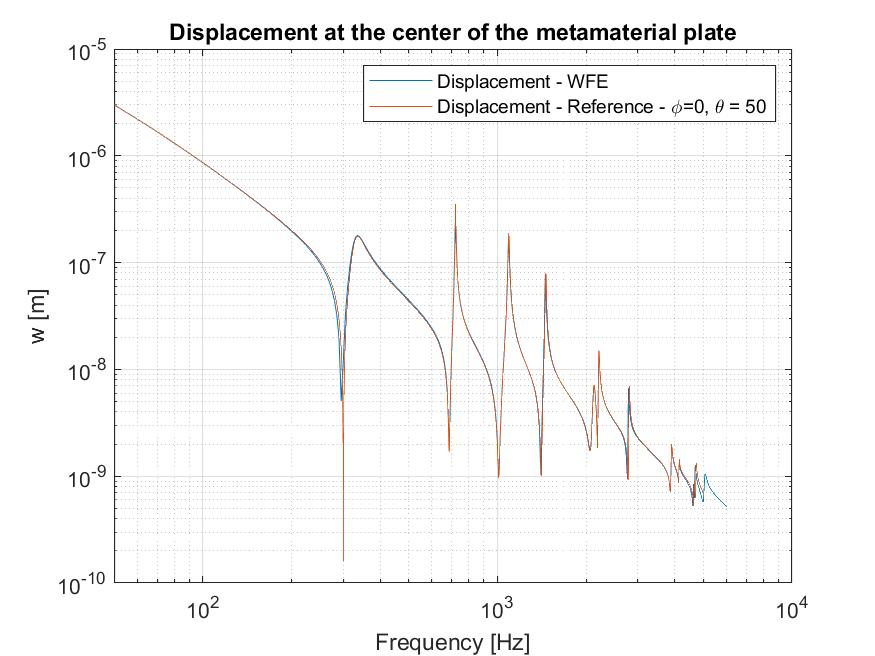
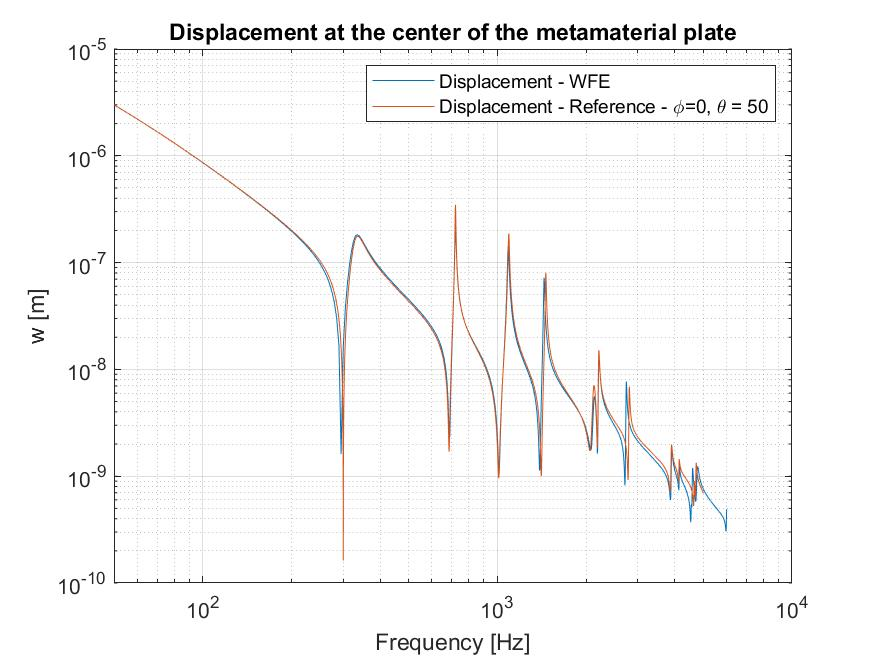
Commit - 25.07.22

diff --git a/consolidado_formulacao_completa/main_stl_plate_resonators_consolidado_caso_geral2.m b/consolidado_formulacao_completa/main_stl_plate_resonators_consolidado_caso_geral2.m
@@ -43,8 +43,8 @@ omega = 2*pi*freq; %[rad/s]
 nfreq = length(freq);
 
 % Number of elements
-nel_x =16;
-nel_y =16;
+nel_x =8;
+nel_y =8;
 
 % Other fixed parameters
 
@@ -216,10 +216,10 @@ for i=1:nfreq
     % Vector of external forces  calculated only for
     % displacement degrees of freedom
     % Equation 18/19, but using shape functions
-    alpha = force_external(nnode,nelem,elem,nodes,csi_aux,eta_aux,wcsi_aux,weta_aux,kx,ky);
+%     alpha = force_external(nnode,nelem,elem,nodes,csi_aux,eta_aux,wcsi_aux,weta_aux,kx,ky);
 
-    % Adding rotational degrees of freedom
-    Fext2(1:3:GDof)= alpha;
+%     % Adding rotational degrees of freedom
+%     Fext2(1:3:GDof)= alpha;
     
     % end Part 7
 
@@ -236,10 +236,13 @@ for i=1:nfreq
 %     toc;
     
 %     tic
-    [Df,V_store_H] = force_fluid2(GDof, numberRes,m_index,n_index,nnode,nelem,elem,nodes,...
-    csi_aux,eta_aux, wcsi_aux, weta_aux, dof, Df1mn,kx_aux,ky_aux);
+    [Df,V_store_H,alpha] = force_fluid2(GDof, numberRes,m_index,n_index,nnode,nelem,elem,nodes,...
+    csi_aux,eta_aux, wcsi_aux, weta_aux, dof, Df1mn,kx_aux,ky_aux,kx,ky);
 %     toc;
-
+    
+    % Adding rotational degrees of freedom
+    Fext2(1:3:GDof)= alpha;
+    
     % Adding fluid effects to dynamic stiffness matrix
 
     % Until this point the index of D is in the original order - matrices K, M

diff --git a/consolidado_formulacao_completa/Quad2.m b/consolidado_formulacao_completa/Quad2.m
@@ -15,21 +15,21 @@ N= [0.25*(1-csi).*(1-eta);
             (1+csi);
             (1-csi)];
         
-%  B= [dcsi.';deta.'];  
-%  
-%  jac= B*[ xcoord, ycoord];
+ B= [dcsi.';deta.'];  
+ 
+ jac= B*[ xcoord, ycoord];
          
       
- jac = zeros(2,2);
- N = zeros(4,length(csi)*length(eta));
-for i=1:4
-    N(:,1) = [ 0.25*(1-csi()).*(1-eta());
-               0.25*(1+csi()).*(1-eta());
-               0.25*(1+csi()).*(1+eta());
-               0.25*(1-csi()).*(1+eta())];
+%  jac = zeros(2,2);
+%  N = zeros(4,length(csi)*length(eta));
+% for i=1:4
+%     N(:,1) = [ 0.25*(1-csi()).*(1-eta());
+%                0.25*(1+csi()).*(1-eta());
+%                0.25*(1+csi()).*(1+eta());
+%                0.25*(1-csi()).*(1+eta())];
 
-    jac = jac + [dcsi(i); deta(i)]*[xcoord(i),ycoord(i)];
-end     
+%     jac = jac + [dcsi(i); deta(i)]*[xcoord(i),ycoord(i)];
+% end     
       
       
  detJ = det(jac);

diff --git a/consolidado_formulacao_completa/force_external.m b/consolidado_formulacao_completa/force_external.m
@@ -31,9 +31,7 @@ for jj=1:nelem
         end
     end
     
-    
     Fext(index) = Fext(index)+fe;
-    
 end
  
 end
